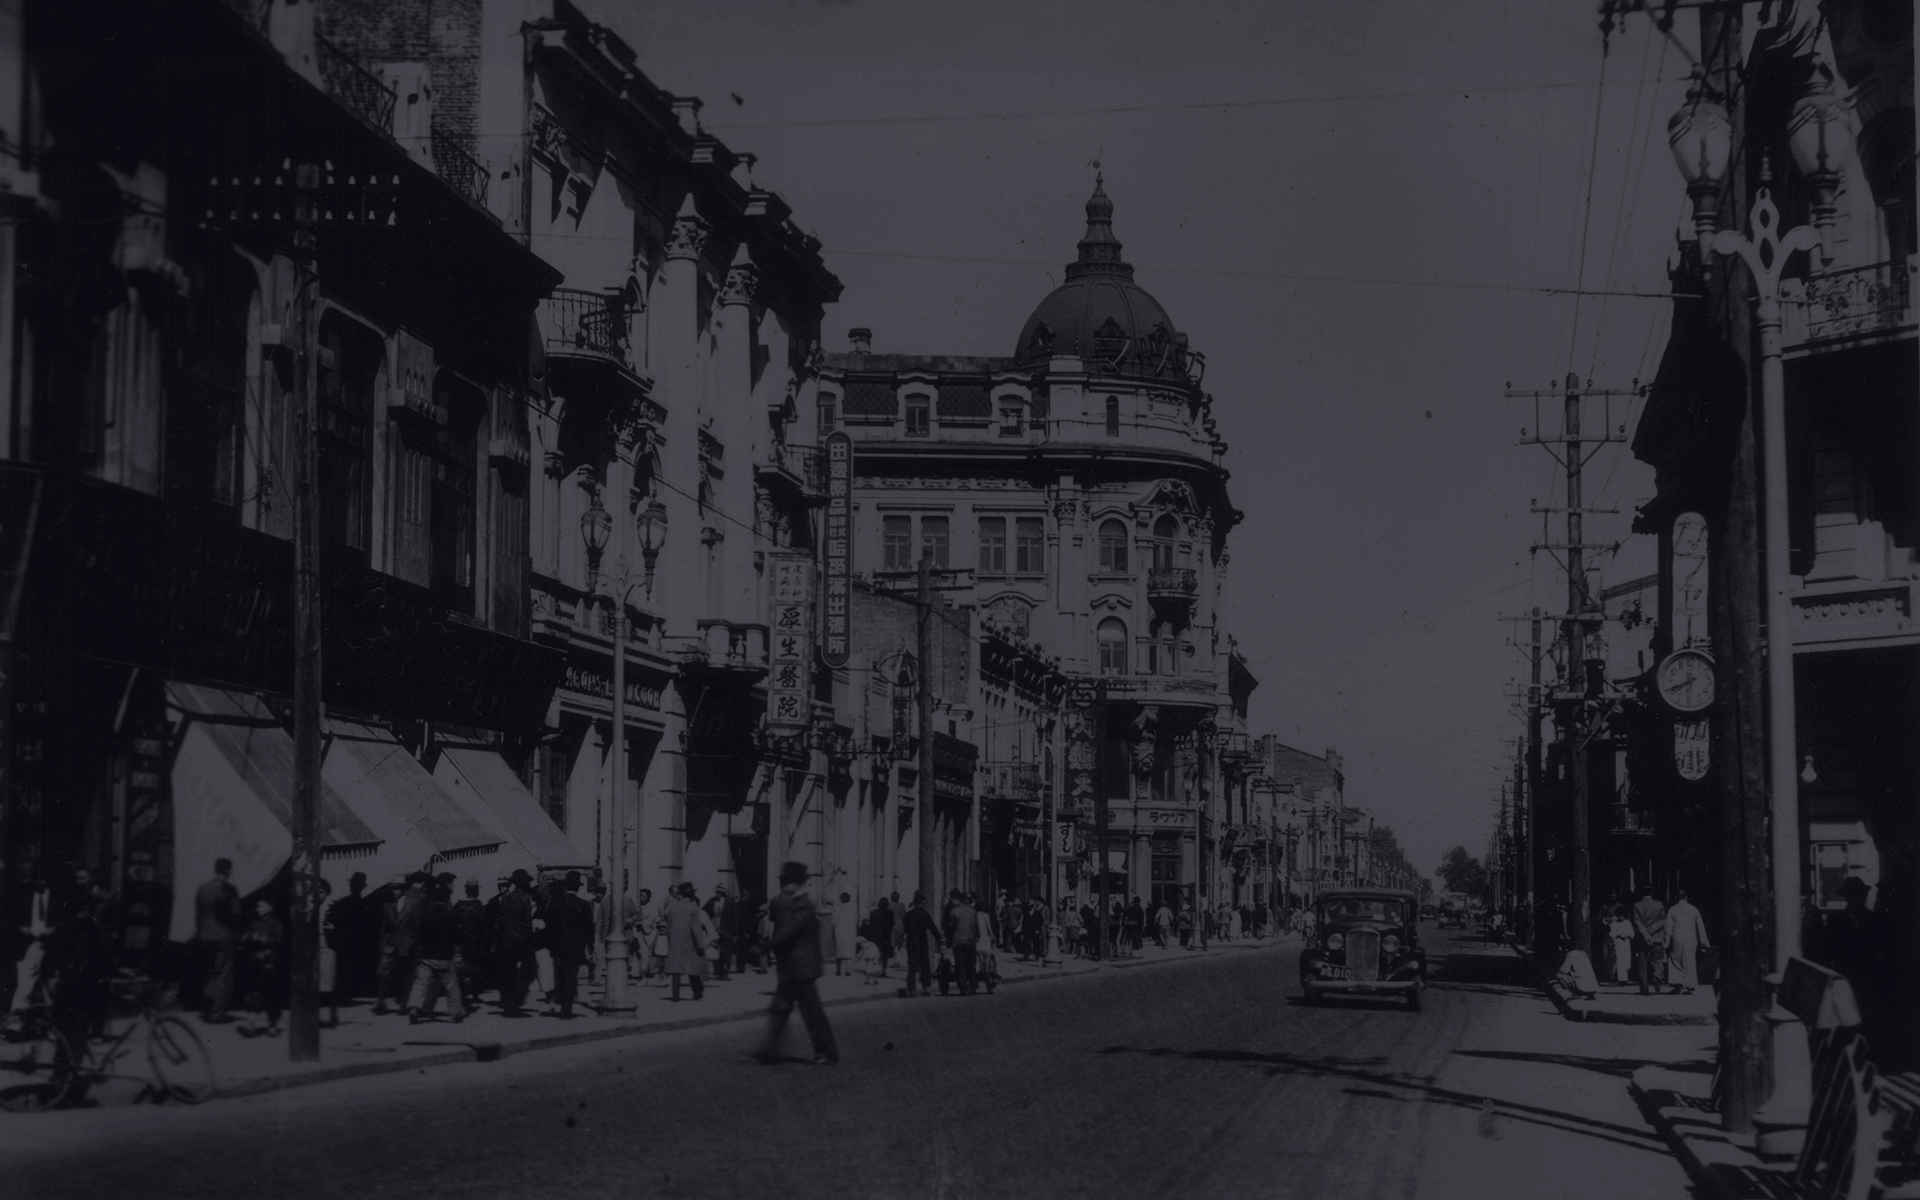
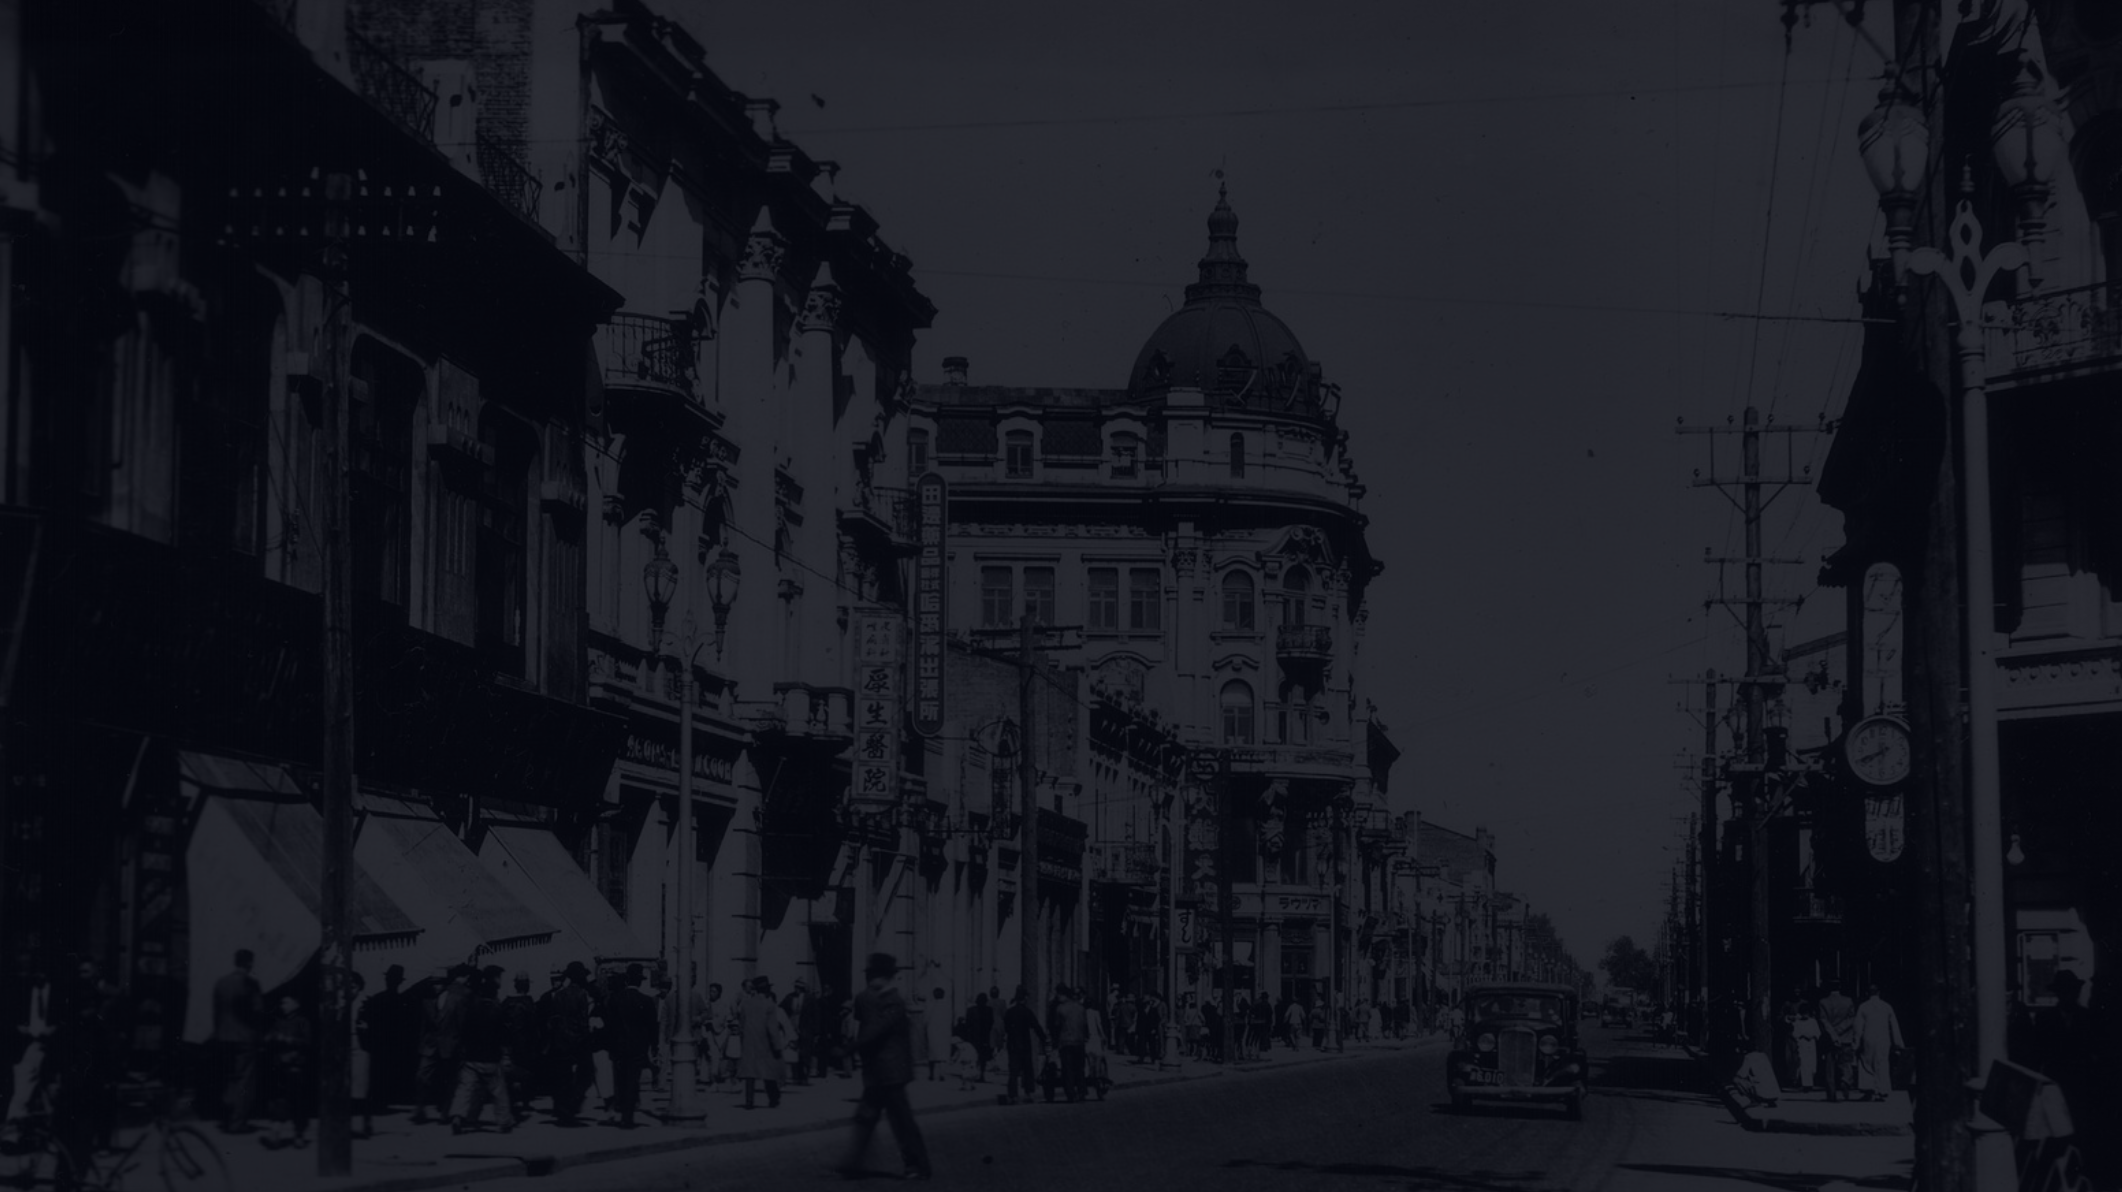
story画像の差し替え

diff --git a/css/style.css b/css/style.css
@@ -439,7 +439,7 @@ header nav#navya ul li a:hover span.navja {
   display: block;
 }
 #about #aboutimage2 {
-  background-image: url("../images/story02.jpg");
+  background-image: url("../images/story02.png");
   display: none;
 }
 #about #aboutimage3 {
